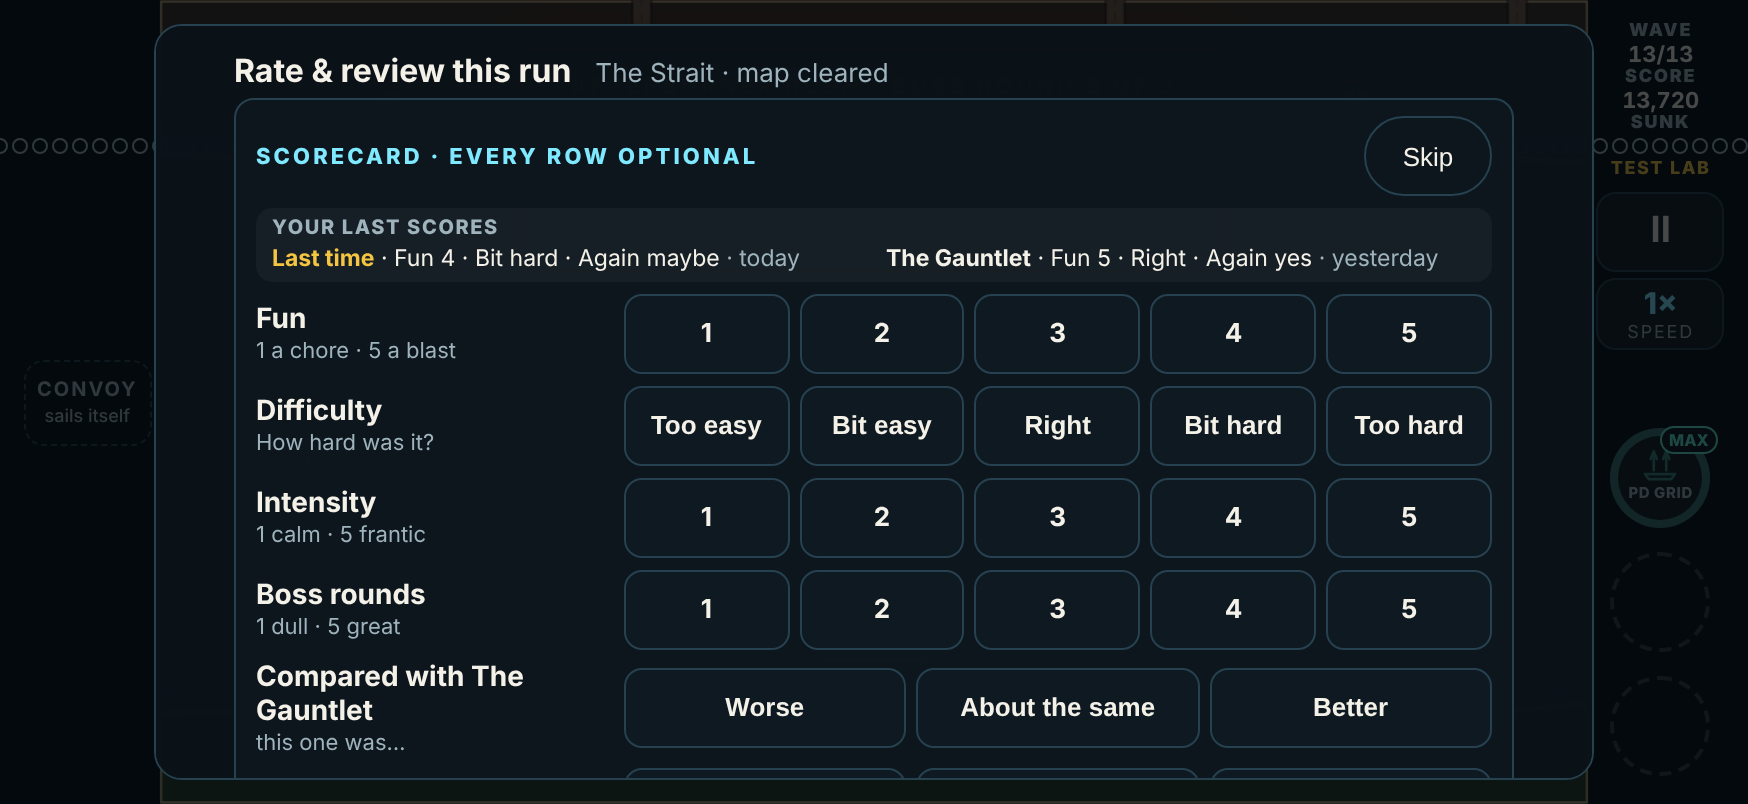
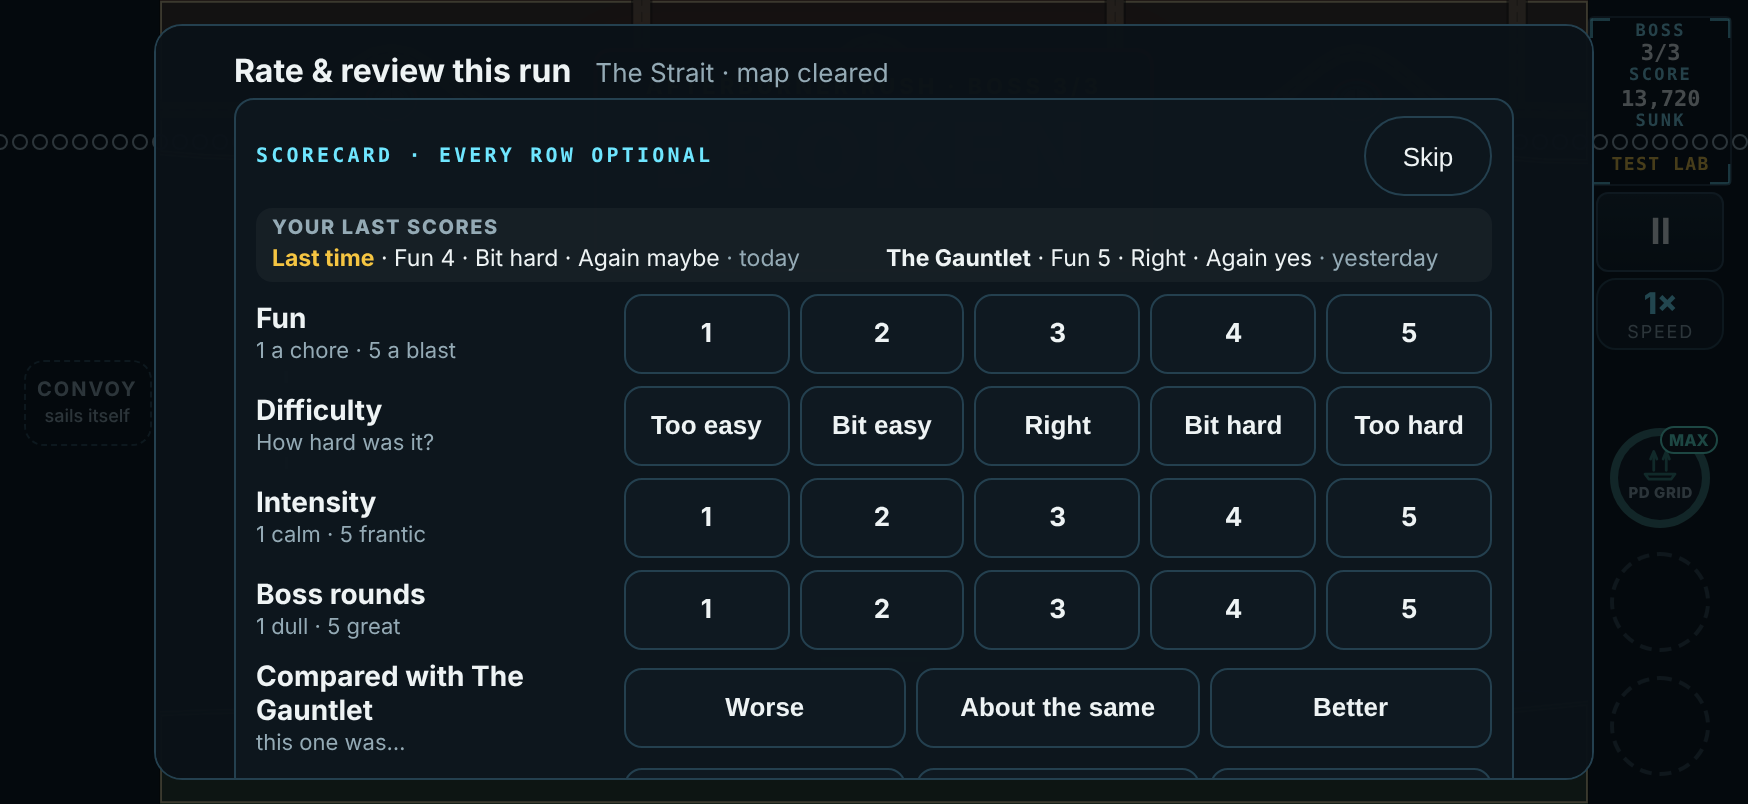
Round 12 doc checks; v3-resume e2e reads the counter case-blind; lab end screenshot with BOSS 3/3
Claude-Session: https://claude.ai/code/session_015SserufEdxL3o4WinW1jct

Changed region(s): [[0.8959, 0.0311, 1.0, 0.2177], [0.1545, 0.1866, 0.4325, 0.2177], [0.0, 0.1555, 0.0927, 0.1866]]

diff --git a/docs/design/v3-playtest-fixes.md b/docs/design/v3-playtest-fixes.md
@@ -65,7 +65,10 @@ Your five chapter 2 Test Lab runs of 2026-11-20 (log v40: Saltgate, the Archipel
 
 ### Checks
 
-- CHECKS
+- `npx tsc --noEmit`: clean. `npx vitest run --exclude '.claude/**'`: all pass. New: `tests/v3/round12.test.ts` (the cluster's climb, the sub audit on every map, the Gunship row, the Shield's fit, Retry and Skip both replaying exactly). The boss-round tests for the Archipelago and Saltgate moved to seeds where the bot still sees all three rounds (225 and 219).
+- The map-lab baseline is rewritten at v41 and replays exactly.
+- **e2e** on `vite preview`: `v3.mjs` (249 checks; new: the boss count on one line, the wave note above the keyboard, Retry and Skip), `v3-audio`, `v3-map-cards`, `v3-map-lab`, `v3-convoy`, `v3-resume` and `v3-encounters` pass. `v3-resume` had one check failing on the base already (it looked for "wave 3" after the counter became "Wave 3 of 10"): now case-blind.
+- Screenshots e2e overwrote are restored, except `img/rate-review/lab-end-top.png`, which now shows "BOSS 3/3".
 
 ## 1. The NEW tag sits on top of the card
 
